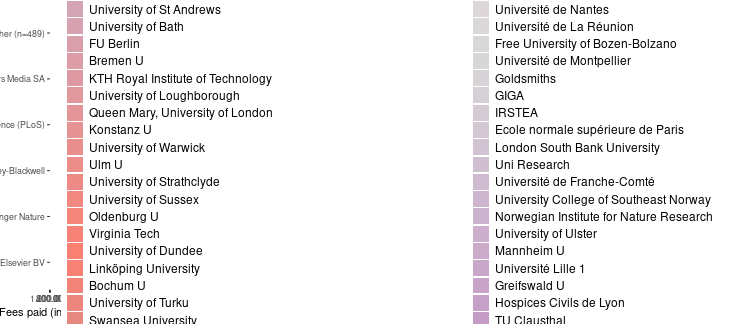
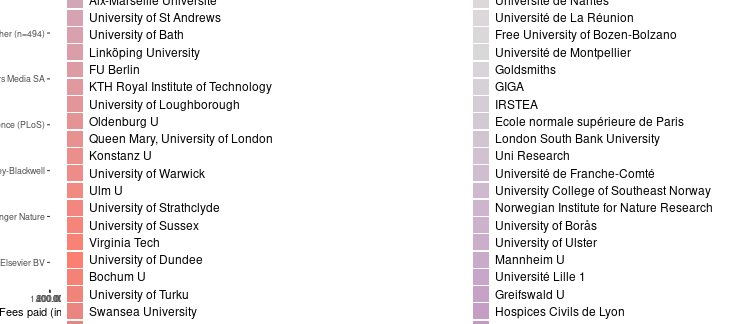
post: bremen u apc data 2018 + 2019

Changed region(s): [[0.6085, 0.0, 0.9431, 1.0], [0.0913, 0.0, 0.3651, 1.0], [0.0304, 0.0926, 0.0608, 0.1235]]

diff --git a/about.md b/about.md
@@ -170,6 +170,7 @@ The data content covers APCs as paid for by our central budget for the Max Planc
 - Malmö University
 - Örebro University
 - Swedish University of Agricultural Sciences
+- Södertörns University
 - Stockholm University
 - Umeå University
 - Uppsala University
@@ -177,6 +178,7 @@ The data content covers APCs as paid for by our central budget for the Max Planc
 
 ## Institutions from Finland:
 
+- [Laurea University of Applied Sciences](https://www.laurea.fi/en/)
 - [Tampere University](https://libguides.tuni.fi/openaccess)
 - [University of Eastern Finland](https://www.uef.fi/en/etusivu)
 - [University of Jyväskylä](https://openscience.jyu.fi/en/open-access-publishing)
@@ -340,13 +342,13 @@ Jisc Collections released data on APC payments made by UK higher education insti
 
 Information on both open access journal articles and open access publication of articles in toll-access journals ("hybrid") are provided.
 
-In total,  193 810 594 € for  97 772 articles were paid by the participating unviversities. Average  fee is 1 982.3 € and the median 1 786 €.
+In total,  194 993 360 € for  98 478 articles were paid by the participating unviversities. Average  fee is 1 980.1 € and the median 1 784 €.
 
 ### Open Access Journals
 
 
 
-At the moment, the dataset releases information on 56 084 articles in open access journals which charge publication fees. Total expenditure amounts to  89 570 255 €. Average  fee is 1 597.1 € and the median 1 503 €.
+At the moment, the dataset releases information on 56 663 articles in open access journals which charge publication fees. Total expenditure amounts to  90 445 092 €. Average  fee is 1 596.2 € and the median 1 503 €.
 
 View dataset on [GitHub](https://github.com/OpenAPC/openapc-de/blob/master/data/apc_de.csv).
 
@@ -365,7 +367,7 @@ View dataset on [GitHub](https://github.com/OpenAPC/openapc-de/blob/master/data/
 |BI Norwegian Business School                                         |        4|             2,761|           690|    724|
 |Bielefeld U                                                          |      649|           885,087|         1,364|  1,396|
 |Bochum U                                                             |      305|           459,765|         1,507|  1,576|
-|Bremen U                                                             |      390|           552,016|         1,415|  1,345|
+|Bremen U                                                             |      634|           946,703|         1,493|  1,428|
 |Brunel University                                                    |      214|           293,529|         1,372|  1,341|
 |Cardiff University                                                   |      507|           929,040|         1,832|  1,643|
 |Chalmers University of Technology                                    |        6|             5,817|           970|  1,012|
@@ -435,12 +437,13 @@ View dataset on [GitHub](https://github.com/OpenAPC/openapc-de/blob/master/data/
 |Konstanz U                                                           |      345|           524,743|         1,521|  1,506|
 |KTH Royal Institute of Technology                                    |      210|           255,437|         1,216|  1,181|
 |Lancaster University                                                 |       65|           102,557|         1,578|  1,492|
+|Laurea University of Applied Sciences                                |       NA|                NA|            NA|     NA|
 |Leeds Beckett University                                             |        8|            12,927|         1,616|  1,461|
 |Leibniz-Fonds                                                        |      271|           435,042|         1,605|  1,572|
 |Leibniz-IGB                                                          |       20|            27,570|         1,379|  1,096|
 |Leipzig U                                                            |      566|           834,928|         1,475|  1,568|
-|Linköping University                                                 |      239|           384,347|         1,608|  1,413|
-|Linnaeus University                                                  |       20|            28,354|         1,418|  1,335|
+|Linköping University                                                 |      319|           504,136|         1,580|  1,423|
+|Linnaeus University                                                  |       51|            77,058|         1,511|  1,424|
 |Liverpool John Moores University                                     |        2|             1,815|           908|    908|
 |Liverpool School of Tropical Medicine                                |       52|            88,727|         1,706|  1,636|
 |London South Bank University                                         |       18|            24,051|         1,336|  1,470|
@@ -473,7 +476,7 @@ View dataset on [GitHub](https://github.com/OpenAPC/openapc-de/blob/master/data/
 |Norwegian School of Sport Sciences                                   |        2|             1,568|           784|    784|
 |Norwegian University of Life Sciences                                |       53|            72,307|         1,364|  1,449|
 |Norwegian University of Science and Technology                       |      115|           162,119|         1,410|  1,420|
-|Oldenburg U                                                          |      323|           435,178|         1,347|  1,416|
+|Oldenburg U                                                          |      362|           496,534|         1,372|  1,440|
 |OpenAIRE                                                             |      536|           776,905|         1,449|  1,411|
 |Örebro University                                                    |       93|           128,190|         1,378|  1,350|
 |Oslo and Akershus university college                                 |       36|            45,728|         1,270|  1,252|
@@ -493,14 +496,15 @@ View dataset on [GitHub](https://github.com/OpenAPC/openapc-de/blob/master/data/
 |Salzburg U                                                           |       67|            94,918|         1,417|  1,398|
 |SINTEF                                                               |        3|             3,633|         1,211|  1,176|
 |SOAS                                                                 |        1|             1,197|         1,197|  1,197|
+|Södertörns University                                                |        7|             6,111|           873|    900|
 |Sørlandet Hospital Trust                                             |        5|             8,453|         1,691|  1,667|
 |St George's, University of London                                    |       19|            36,284|         1,910|  1,862|
-|Stockholm University                                                 |      469|           715,351|         1,525|  1,350|
+|Stockholm University                                                 |      468|           713,959|         1,526|  1,350|
 |Stuttgart U                                                          |      272|           342,537|         1,259|  1,305|
 |Swansea University                                                   |       73|           125,868|         1,724|  1,494|
-|Swedish School of Sport and Health Sciences                          |        7|            11,776|         1,682|  1,364|
-|Swedish University of Agricultural Sciences                          |      450|           595,056|         1,322|  1,328|
-|Swiss National Science Foundation (SNSF)                             |      644|         1,290,397|         2,004|  1,605|
+|Swedish School of Sport and Health Sciences                          |        8|            13,276|         1,660|  1,422|
+|Swedish University of Agricultural Sciences                          |      590|           791,488|         1,342|  1,338|
+|Swiss National Science Foundation (SNSF)                             |      643|         1,288,583|         2,004|  1,603|
 |Tampere University                                                   |       56|            79,937|         1,427|  1,445|
 |TH Wildau                                                            |       12|            14,275|         1,190|  1,288|
 |The Open University                                                  |        8|            16,623|         2,078|  1,856|
@@ -557,7 +561,7 @@ View dataset on [GitHub](https://github.com/OpenAPC/openapc-de/blob/master/data/
 |University of Belgrade                                               |       34|            30,328|           892|    858|
 |University of Bergen                                                 |      156|           242,308|         1,553|  1,549|
 |University of Birmingham                                             |      944|         1,654,675|         1,753|  1,594|
-|University of Borås                                                  |       NA|                NA|            NA|     NA|
+|University of Borås                                                  |       14|            18,377|         1,313|  1,310|
 |University of Bristol                                                |      197|           338,408|         1,718|  1,601|
 |University of Calgary                                                |      883|           993,318|         1,125|  1,145|
 |University of Cambridge                                              |    1,173|         2,660,767|         2,268|  1,853|
@@ -600,8 +604,8 @@ View dataset on [GitHub](https://github.com/OpenAPC/openapc-de/blob/master/data/
 |University of Ulster                                                 |        4|             4,012|         1,003|    919|
 |University of Warwick                                                |       74|           146,885|         1,985|  1,639|
 |University of York                                                   |      259|           469,684|         1,813|  1,588|
-|University West                                                      |        6|             4,868|           811|    729|
-|Uppsala University                                                   |      615|           964,611|         1,568|  1,416|
+|University West                                                      |       30|            35,686|         1,190|  1,136|
+|Uppsala University                                                   |      616|           964,880|         1,566|  1,415|
 |Vestfold Hospital Trust                                              |        4|             6,134|         1,533|  1,532|
 |Vestre Viken Hospital Trust                                          |        4|             5,796|         1,449|  1,555|
 |Virginia Tech                                                        |      304|           329,478|         1,084|  1,224|
@@ -614,7 +618,7 @@ View dataset on [GitHub](https://github.com/OpenAPC/openapc-de/blob/master/data/
 
 
 In many toll-access journals some of the articles are open access after a fee has been paid. This model is often called "hybrid open access".
-The dataset covers 41 688 hybrid open access articles. Total expenditure amounts to  104 240 338 €. Average  fee is 2 500.5 € and the median 2 454 €.
+The dataset covers 41 815 hybrid open access articles. Total expenditure amounts to  104 548 268 €. Average  fee is 2 500.3 € and the median 2 454 €.
 
 The following institutions have contributed its expenditures for hybrid open access.
 
@@ -670,7 +674,7 @@ The following institutions have contributed its expenditures for hybrid open acc
 |IST Austria                                                          |       12|            33,408|         2,784|  2,871|
 |JGU Mainz                                                            |        1|             1,792|         1,792|  1,792|
 |Jyväskylä U                                                          |       31|            32,655|         1,053|    860|
-|Karlstad University                                                  |       42|            73,837|         1,758|  1,733|
+|Karlstad University                                                  |       41|            73,663|         1,797|  1,738|
 |Karolinska Institutet                                                |       24|            37,567|         1,565|  1,774|
 |Keele University                                                     |       25|            65,045|         2,602|  2,644|
 |King's College London                                                |    1,233|         3,354,770|         2,721|  2,648|
@@ -678,10 +682,11 @@ The following institutions have contributed its expenditures for hybrid open acc
 |Konstanz U                                                           |        3|             5,556|         1,852|  1,950|
 |KTH Royal Institute of Technology                                    |      171|           320,662|         1,875|  1,848|
 |Lancaster University                                                 |      188|           386,186|         2,054|  1,998|
+|Laurea University of Applied Sciences                                |        3|             3,430|         1,143|    810|
 |Leeds Beckett University                                             |        2|             4,288|         2,144|  2,144|
 |Leibniz-IGB                                                          |        7|            14,513|         2,073|  2,200|
-|Linköping University                                                 |       69|           145,038|         2,102|  2,132|
-|Linnaeus University                                                  |       19|            42,280|         2,225|  2,105|
+|Linköping University                                                 |       95|           201,723|         2,123|  2,150|
+|Linnaeus University                                                  |       28|            58,518|         2,090|  2,099|
 |Liverpool John Moores University                                     |        2|             6,793|         3,396|  3,396|
 |Liverpool School of Tropical Medicine                                |       33|            91,829|         2,783|  2,945|
 |London South Bank University                                         |        1|             2,459|         2,459|  2,459|
@@ -707,11 +712,12 @@ The following institutions have contributed its expenditures for hybrid open acc
 |Royal Holloway                                                       |       43|           101,773|         2,367|  2,173|
 |Salzburg U                                                           |        1|             2,396|         2,396|  2,396|
 |SOAS                                                                 |       11|            15,154|         1,378|    638|
+|Södertörns University                                                |        7|            18,789|         2,684|  2,476|
 |St George's, University of London                                    |       23|            67,276|         2,925|  2,756|
 |Stockholm University                                                 |      431|           970,710|         2,252|  2,275|
 |Swansea University                                                   |      202|           532,477|         2,636|  2,634|
 |Swedish School of Sport and Health Sciences                          |        3|             7,110|         2,370|  2,500|
-|Swedish University of Agricultural Sciences                          |      220|           520,879|         2,368|  2,330|
+|Swedish University of Agricultural Sciences                          |      288|           700,640|         2,433|  2,480|
 |Swiss National Science Foundation (SNSF)                             |       73|           148,000|         2,027|  2,126|
 |Tampere University                                                   |       30|            61,063|         2,035|  2,262|
 |The Open University                                                  |       27|            66,541|         2,464|  2,852|
@@ -747,7 +753,7 @@ The following institutions have contributed its expenditures for hybrid open acc
 |University of Aberdeen                                               |       81|           210,109|         2,594|  2,626|
 |University of Bath                                                   |      330|           777,839|         2,357|  2,200|
 |University of Birmingham                                             |    1,034|         2,634,038|         2,547|  2,531|
-|University of Borås                                                  |        1|             1,950|         1,950|  1,950|
+|University of Borås                                                  |        4|             8,003|         2,001|  2,225|
 |University of Bristol                                                |      558|         1,348,747|         2,417|  2,275|
 |University of Calgary                                                |       46|            92,407|         2,009|  2,183|
 |University of Cambridge                                              |    2,637|         7,354,408|         2,789|  2,671|
@@ -787,7 +793,7 @@ The following institutions have contributed its expenditures for hybrid open acc
 |University of Ulster                                                 |       13|            27,113|         2,086|  2,236|
 |University of Warwick                                                |      267|           679,743|         2,546|  2,574|
 |University of York                                                   |      462|         1,107,714|         2,398|  2,341|
-|University West                                                      |        4|             8,395|         2,099|  2,022|
+|University West                                                      |       16|            35,544|         2,221|  2,383|
 |Uppsala University                                                   |      361|           925,100|         2,563|  2,521|
 |Virginia Tech                                                        |       17|            23,968|         1,410|  1,271|
 |Weierstrass Institute for Applied Analysis and Stochastics           |        2|             4,870|         2,435|  2,435|
@@ -867,7 +873,7 @@ For data enrichment, sample visualisations and explorations we build on the work
 
 ## Contributors
 
-Jens Harald Aasheim, Benjamin Ahlborn, Chelsea Ambler, Magdalena Andrae, Jochen Apel, Hans-Georg Becker, Roland Bertelmann, Daniel Beucke, Peter Blume, Ute Blumtritt, Sabine Boccalini, Stefanie Bollin, Kim Braun, Christoph Broschinski, Paolo Buoso, Cliff Buschhart, Dorothea Busjahn, Pablo de Castro, Roberto Cozatl, Amanda Cullin, Patrick Danowski, Gernot Deinzer, Julia Dickel, Andrea Dorner, Stefan Drößler, Karin Eckert, Carsten Elsner, Clemens Engelhardt, Katrin Falkenstein-Feldhoff, Inken Feldsien-Sudhaus, Silke Frank, Fabian Franke, Claudia Frick, Marléne Friedrich, Paola Galimberti, Agnes Geißelmann, Kai Karin Geschuhn, Steffi Grimm, Ute Grimmel-Holzwarth, Evgenia Grishina, Christian Gutknecht, Uli Hahn, Kristina Hanig, Margit L. Hartung, Dominik Hell, Ulrich Herb, Stephanie Herzog, Kathrin Höhner, Christie Hurrell, Arto Ikonen, Doris Jaeger, Najko Jahn, Alexandra Jobmann, Juho Jussila, Nadja Kalinna, Mirjam Kant, Andreas Kennecke, Robert Kiley, Ilka Kleinod, Lydia Koglin, Biljana Kosanovic, Stephanie Kroiß, Gerrit Kuehle, Ignasi Labastida i Juan, Gerald Langhanke, Inga Larres, Stuart Lawson, Sari Leppänen, Camilla Lindelöw, Kathrin Lucht-Roussel, Jan Lüth, Frank Lützenkirchen, Steffen Malo, Anna Marini, Manuel Moch, Anja Oberländer, Jere Odell, Linda Ohrtmann, Vitali Peil, Gabriele Pendorf, Mikko Pennanen, Dirk Pieper, Tobias Pohlmann, Thomas Porquet, Markus Putnings, Andrée Rathemacher, Edith Reschke, Katharina Rieck, Friedrich Riedel, Florian Ruckelshausen, Ilka Rudolf, Annette Scheiner, Michael Schlachter, Birgit Schlegel, Barbara Schmidt, Stefanie Seeh, Barbara Senkbeil-Stoffels, Adriana Sikora, Tereza Simandlová, Susanne Stemmler, Matti Stöhr, Eva Stopková, Kálmán Szőke, Linda Thomas, Laura Tobler, Johanna Tönsing, Marco Tullney,  Milan Vasiljevic, Astrid Vieler, Viola Voß, Roland Wagner, Marco Winkler, Sabine Witt, Michael Wohlgemuth, Philip Young, Philipp Zumstein
+Jens Harald Aasheim, Benjamin Ahlborn, Chelsea Ambler, Magdalena Andrae, Jochen Apel, Hans-Georg Becker, Roland Bertelmann, Daniel Beucke, Peter Blume, Ute Blumtritt, Sabine Boccalini, Stefanie Bollin, Kim Braun, Christoph Broschinski, Paolo Buoso, Cliff Buschhart, Dorothea Busjahn, Pablo de Castro, Roberto Cozatl, Amanda Cullin, Patrick Danowski, Gernot Deinzer, Julia Dickel, Andrea Dorner, Stefan Drößler, Karin Eckert, Carsten Elsner, Clemens Engelhardt, Katrin Falkenstein-Feldhoff, Inken Feldsien-Sudhaus, Silke Frank, Fabian Franke, Claudia Frick, Marléne Friedrich, Paola Galimberti, Agnes Geißelmann, Kai Karin Geschuhn, Steffi Grimm, Ute Grimmel-Holzwarth, Evgenia Grishina, Christian Gutknecht, Uli Hahn, Kristina Hanig, Margit L. Hartung, Dominik Hell, Ulrich Herb, Stephanie Herzog, Kathrin Höhner, Christie Hurrell, Arto Ikonen, Doris Jaeger, Najko Jahn, Alexandra Jobmann, Juho Jussila, Nadja Kalinna, Mirjam Kant, Andreas Kennecke, Robert Kiley, Ilka Kleinod, Lydia Koglin, Biljana Kosanovic, Stephanie Kroiß, Gerrit Kuehle, Anna Laakkonen, Ignasi Labastida i Juan, Gerald Langhanke, Inga Larres, Stuart Lawson, Sari Leppänen, Camilla Lindelöw, Kathrin Lucht-Roussel, Jan Lüth, Frank Lützenkirchen, Steffen Malo, Anna Marini, Manuel Moch, Anja Oberländer, Jere Odell, Linda Ohrtmann, Vitali Peil, Gabriele Pendorf, Mikko Pennanen, Dirk Pieper, Tobias Pohlmann, Thomas Porquet, Markus Putnings, Andrée Rathemacher, Edith Reschke, Katharina Rieck, Friedrich Riedel, Florian Ruckelshausen, Ilka Rudolf, Annette Scheiner, Michael Schlachter, Birgit Schlegel, Barbara Schmidt, Stefanie Seeh, Barbara Senkbeil-Stoffels, Adriana Sikora, Tereza Simandlová, Susanne Stemmler, Matti Stöhr, Eva Stopková, Kálmán Szőke, Linda Thomas, Laura Tobler, Johanna Tönsing, Marco Tullney,  Milan Vasiljevic, Astrid Vieler, Viola Voß, Roland Wagner, Marco Winkler, Sabine Witt, Michael Wohlgemuth, Philip Young, Philipp Zumstein
 
 ## Contact
 

diff --git a/_posts/2020-01-15-bremen.md b/_posts/2020-01-15-bremen.md
@@ -1,0 +1,71 @@
+---
+layout:     post
+author:     Christoph Broschinski
+author_lnk: https://github.com/cbroschinski
+title:      University of Bremen reports its 2018 and 2019 APC expenditures
+date:       2020-01-15 12:00:00
+summary:    
+categories: [general, openAPC]
+comments: true
+---
+
+
+
+
+The [University of Bremen](http://www.uni-bremen.de/en.html) has updated its APC expenditures, the latest contribution provides data for the years 2018 and 2019.
+
+The [State and University Library Bremen](http://www.suub.uni-bremen.de/home-english/) is in charge of the [University's Open Access Publishing Fund](http://www.suub.uni-bremen.de/home-english/refworks-and-publishing/open-access-in-bremen-2/), which is supported under the [DFG's Open Access Publishing Programme](http://www.dfg.de/en/research_funding/programmes/infrastructure/lis/funding_opportunities/open_access/).
+
+Contact person is [Benjamin Ahlborn](mailto:ahlborn@suub.uni-bremen.de).
+
+## Cost data
+
+
+
+The new data set covers publication fees for 244 articles. Total expenditure amounts to 394 687€ and the average fee is 1 618€.
+
+The following table shows the payments the State and University Library Bremen has made to publishers since its last contribution.
+
+
+|                                                            | Articles| Fees paid in EURO| Mean Fee paid|
+|:-----------------------------------------------------------|--------:|-----------------:|-------------:|
+|MDPI AG                                                     |       70|             76031|          1086|
+|Copernicus GmbH                                             |       53|             96320|          1817|
+|Springer Nature                                             |       47|             93360|          1986|
+|Frontiers Media SA                                          |       31|             71667|          2312|
+|Public Library of Science (PLoS)                            |       11|             15326|          1393|
+|Cogitatio                                                   |        4|              4165|          1041|
+|Cambridge University Press (CUP)                            |        3|              5025|          1675|
+|Elsevier BV                                                 |        3|              4187|          1396|
+|International Council of Associations for Science Education |        3|               171|            57|
+|BMJ                                                         |        2|              4522|          2261|
+|Hindawi Publishing Corporation                              |        2|              3699|          1849|
+|Kritische Geographie Berlin e.V.                            |        2|              1100|           550|
+|Wiley-Blackwell                                             |        2|              3599|          1799|
+|Academic Conferences and Publishing International Limited   |        1|               331|           331|
+|American Association for the Advancement of Science (AAAS)  |        1|              3576|          3576|
+|Informa UK Limited                                          |        1|              2378|          2378|
+|Institute of Electrical & Electronics Engineers (IEEE)      |        1|              1509|          1509|
+|Look Academic Publishers                                    |        1|               428|           428|
+|Optical Society of America (OSA)                            |        1|              2058|          2058|
+|American Geophysical Union (AGU)                            |        1|               887|           887|
+|Anticancer Research USA Inc.                                |        1|               664|           664|
+|Computers, Materials and Continua (Tech Science Press)      |        1|              1171|          1171|
+|International Union of Crystallography (IUCr)               |        1|               322|           322|
+|JMIR Publications Inc.                                      |        1|              2192|          2192|
+
+## Overview
+
+With the recent contribution included, the overall APC data for Bremen now looks as follows:
+
+### Fees paid per publisher (in EURO)
+
+![plot of chunk tree_bremen_20120_01_15_full](/figure/tree_bremen_20120_01_15_full-1.png)
+
+###  Average costs per year (in EURO)
+
+![plot of chunk box_bremen_20120_01_15_year_full](/figure/box_bremen_20120_01_15_year_full-1.png)
+
+###  Average costs per publisher (in EURO)
+
+![plot of chunk box_bremen_20120_01_15_publisher_full](/figure/box_bremen_20120_01_15_publisher_full-1.png)
